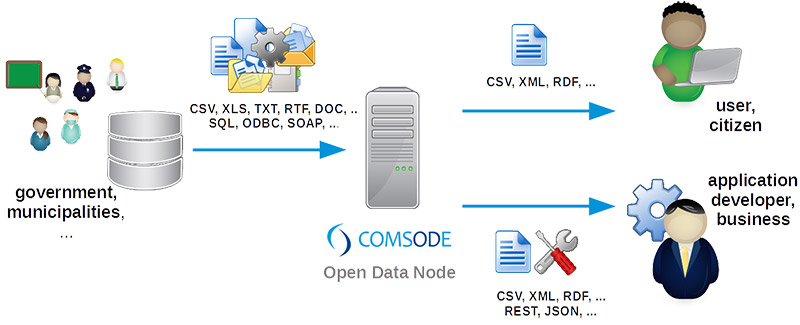
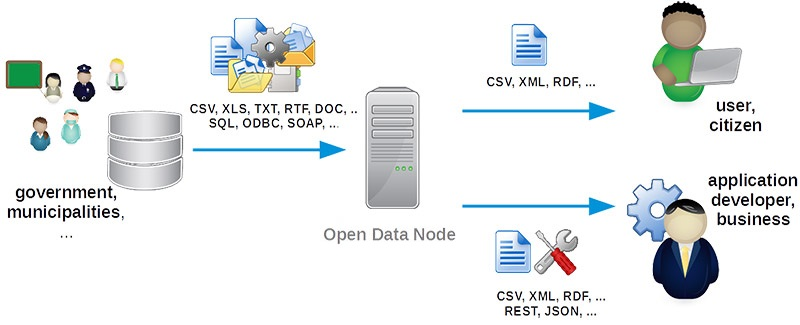
EDEM-66. Added MOD theme.

diff --git a/ckanext/odn_theme/templates/footer.html b/ckanext/odn_theme/templates/footer.html
@@ -4,11 +4,10 @@
       <nav class="footer-links">
         {% block footer_nav %}
           <ul class="unstyled">
-            <li><a href="http://www.comsode.eu" target="_blank"><img src="{{h.url_for_static('/base/images/comsodelogo.png')}}" alt="Comsode" border="0" style="margin-top:6px;"/></a></li>
+            <li><a href="https://www.slovensko.sk" target="_blank"><img src="{{h.url_for_static('/base/images/upvs-logo.png')}}" alt="ÚPVS" border="0" style="margin-top:6px;width:100px;"/></a></li>
           </ul>
           <ul class="unstyled" style="margin-left:75px;margin-top:4px;">  
-            <li style="line-height:22px;"><strong>{{ _('FP7 Project COMSODE') }}</strong><br>
-                <a href="http://www.comsode.eu" target="_blank">www.comsode.eu</a> - <a href="https://twitter.com/FP7COMSODE" target="_blank">@FP7COMSODE</a> </li>         
+            <li><a href="http://www.comsode.eu" target="_blank"><img src="{{h.url_for_static('/base/images/comsodelogo.png')}}" alt="Comsode" border="0" style="margin-top:6px;"/></a></li>
           </ul>
         {% endblock %}
       </nav>
@@ -25,7 +24,6 @@
         </div>
       </div>
     {% endblock %}
-    <div style="clear:both;padding-top:15px;">{{ _('Project Comsode has received funding from the Seventh Framework Programme of the European Union in Grant Agreement number 611358.') }}</div>
 
  </div>
 

diff --git a/ckanext/odn_theme/templates/home/snippets/odn_theme_promoted.html b/ckanext/odn_theme/templates/home/snippets/odn_theme_promoted.html
@@ -5,7 +5,7 @@
     {% if intro %}
       {{ h.render_markdown(intro) }}
     {% else %}
-      <h1 class="page-heading">{{ _("Comsode: Open Data Node") }}</h1>
+      <h1 class="page-heading">{{ _("Open Data Node") }}</h1>
       <p>
       {% trans %}
         ODN is platform fur publishing, retrieving and interchange of open data supporting whole process of publication.

diff --git a/ckanext/odn_theme/templates/header.html b/ckanext/odn_theme/templates/header.html
@@ -101,7 +101,7 @@
                 ('about', _('About ODN'))
               ) }}
             {% endblock %}
-<li><a target="_blank" href="http://www.comsode.eu">{{ _("Project Comsode") }}</a></li>
+<li><a target="_blank" href="http://data.gov.sk">{{ _("Data.gov.sk") }}</a></li>
           </ul>
         </nav>
       {% endblock %}
